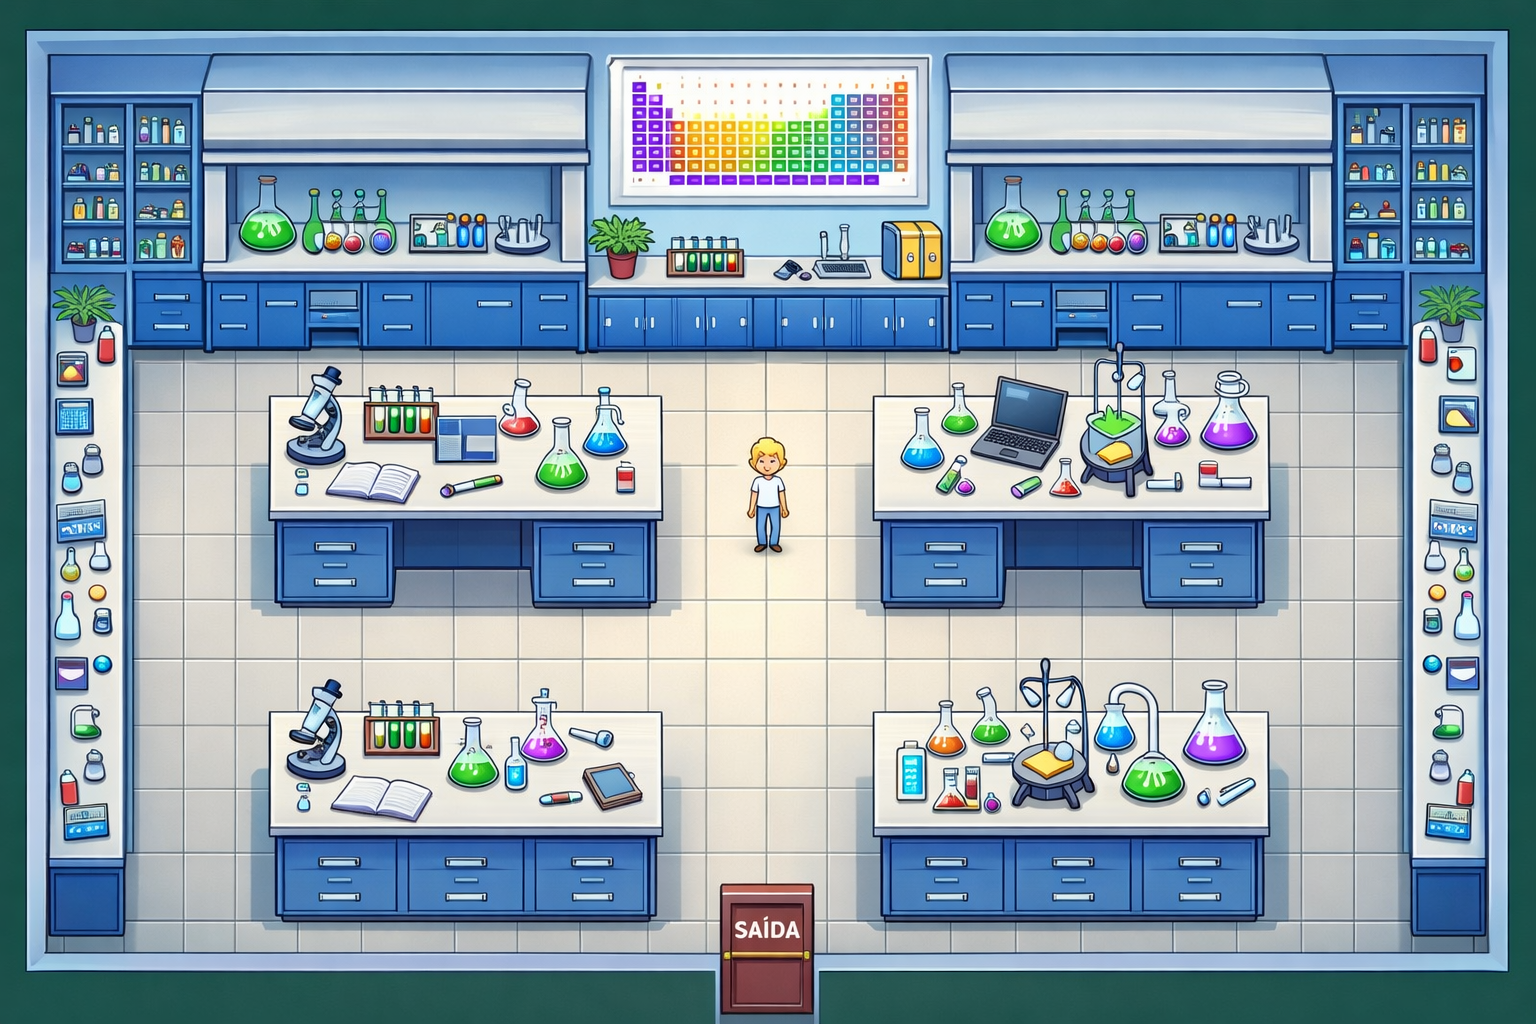
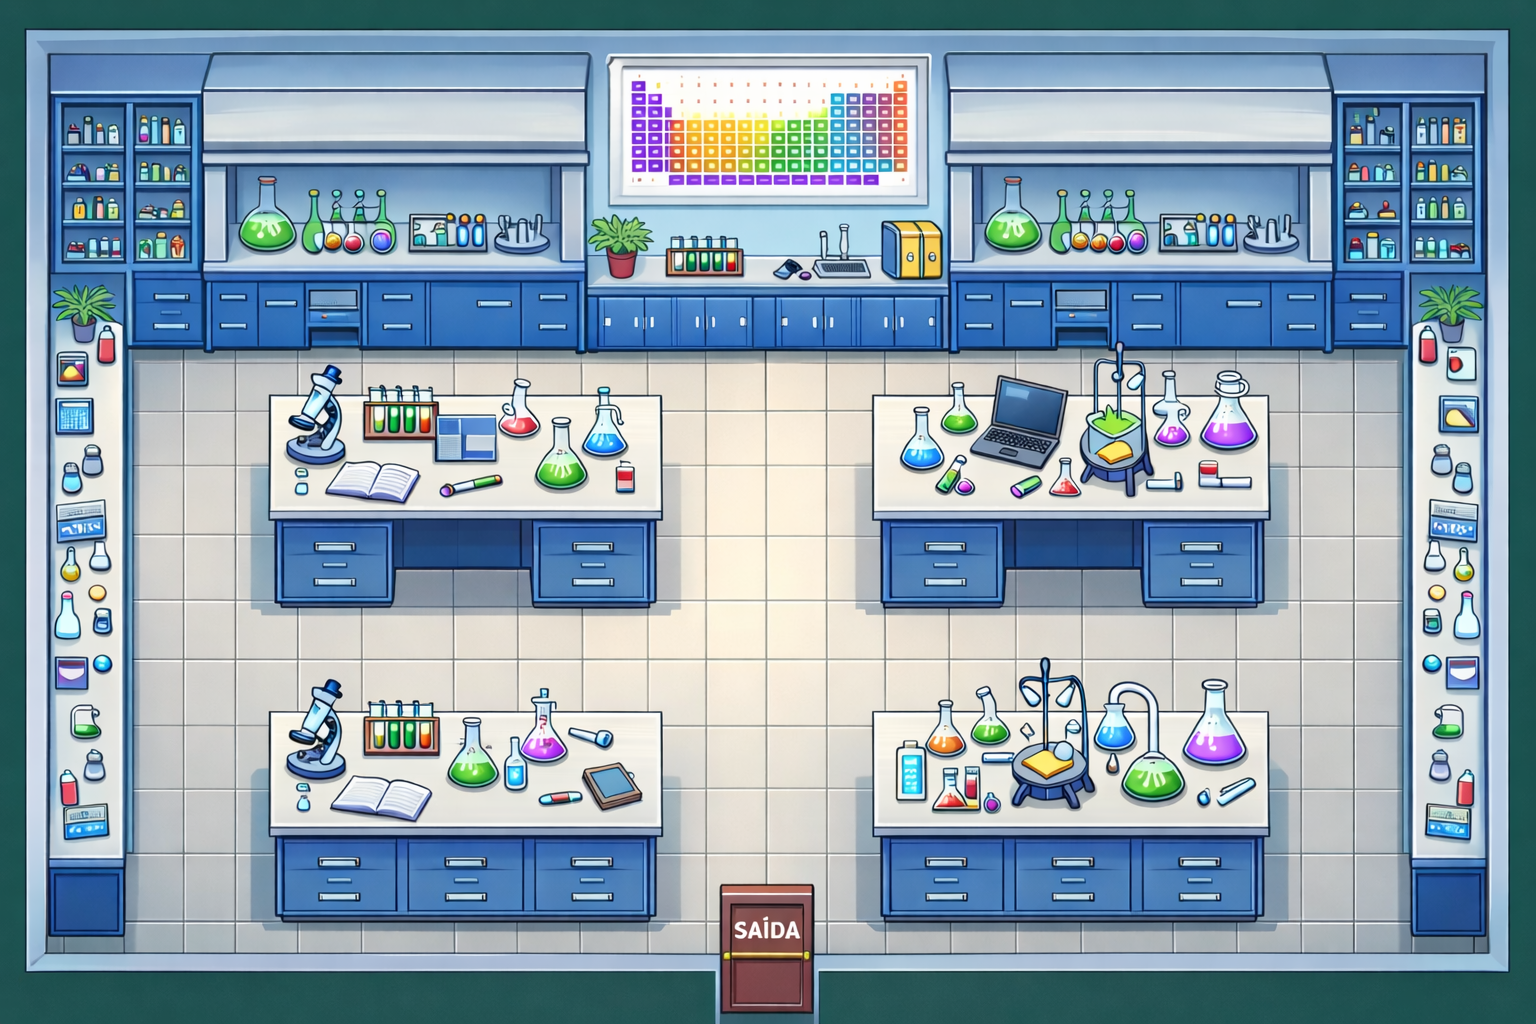
Colocando player e movimentação

diff --git a/jogo/main.py b/jogo/main.py
@@ -1,4 +1,5 @@
-import pygame 
+import pygame
+from player import Player 
 
 pygame.init() 
 
@@ -10,7 +11,18 @@ novo_tamanho_fundo = (800, 600)
 fundo_redimensionado = pygame.transform.scale(fundo, novo_tamanho_fundo) 
 
 clock = pygame.time.Clock() 
-FPS = 60 
+FPS = 60
+
+LARGURA = 800
+ALTURA = 600
+
+largura_player = 150
+altura_player = 140
+
+x = LARGURA // 2 - largura_player // 2
+y = ALTURA // 2 - altura_player // 2
+
+player = Player(x, y, 5)
 
 rodando = True 
 while rodando: 
@@ -18,10 +30,13 @@ while rodando:
         if evento.type == pygame.QUIT: 
             rodando = False 
             
-        tela.blit(fundo_redimensionado, (0, 0)) 
+    tela.blit(fundo_redimensionado, (0, 0)) 
 
-        clock.tick(FPS) 
+    player.mover()
+    player.desenhar(tela)
 
-        pygame.display.flip() 
-        
+    pygame.display.flip()
+
+    clock.tick(FPS) 
+
 pygame.quit()

diff --git a/jogo/player.py b/jogo/player.py
@@ -1,0 +1,31 @@
+import pygame
+
+class Player:
+    def __init__(self, x, y, velocidade):
+        self.x = x
+        self.y = y
+        self.velocidade = velocidade
+
+        self.imagem = pygame.image.load("assets/player.png").convert_alpha()
+        self.imagem = pygame.transform.scale(self.imagem, (150, 140))
+
+    def mover(self):
+        teclado = pygame.key.get_pressed()
+
+        if teclado[pygame.K_LEFT]:
+            self.x -= self.velocidade
+        
+        if teclado[pygame.K_RIGHT]:
+            self.x += self.velocidade
+
+        if teclado[pygame.K_UP]:
+            self.y -= self.velocidade
+
+        if teclado[pygame.K_DOWN]:
+            self.y += self.velocidade
+
+    def desenhar(self, tela):
+        tela.blit(self.imagem, (self.x, self.y))
+
+        
+
